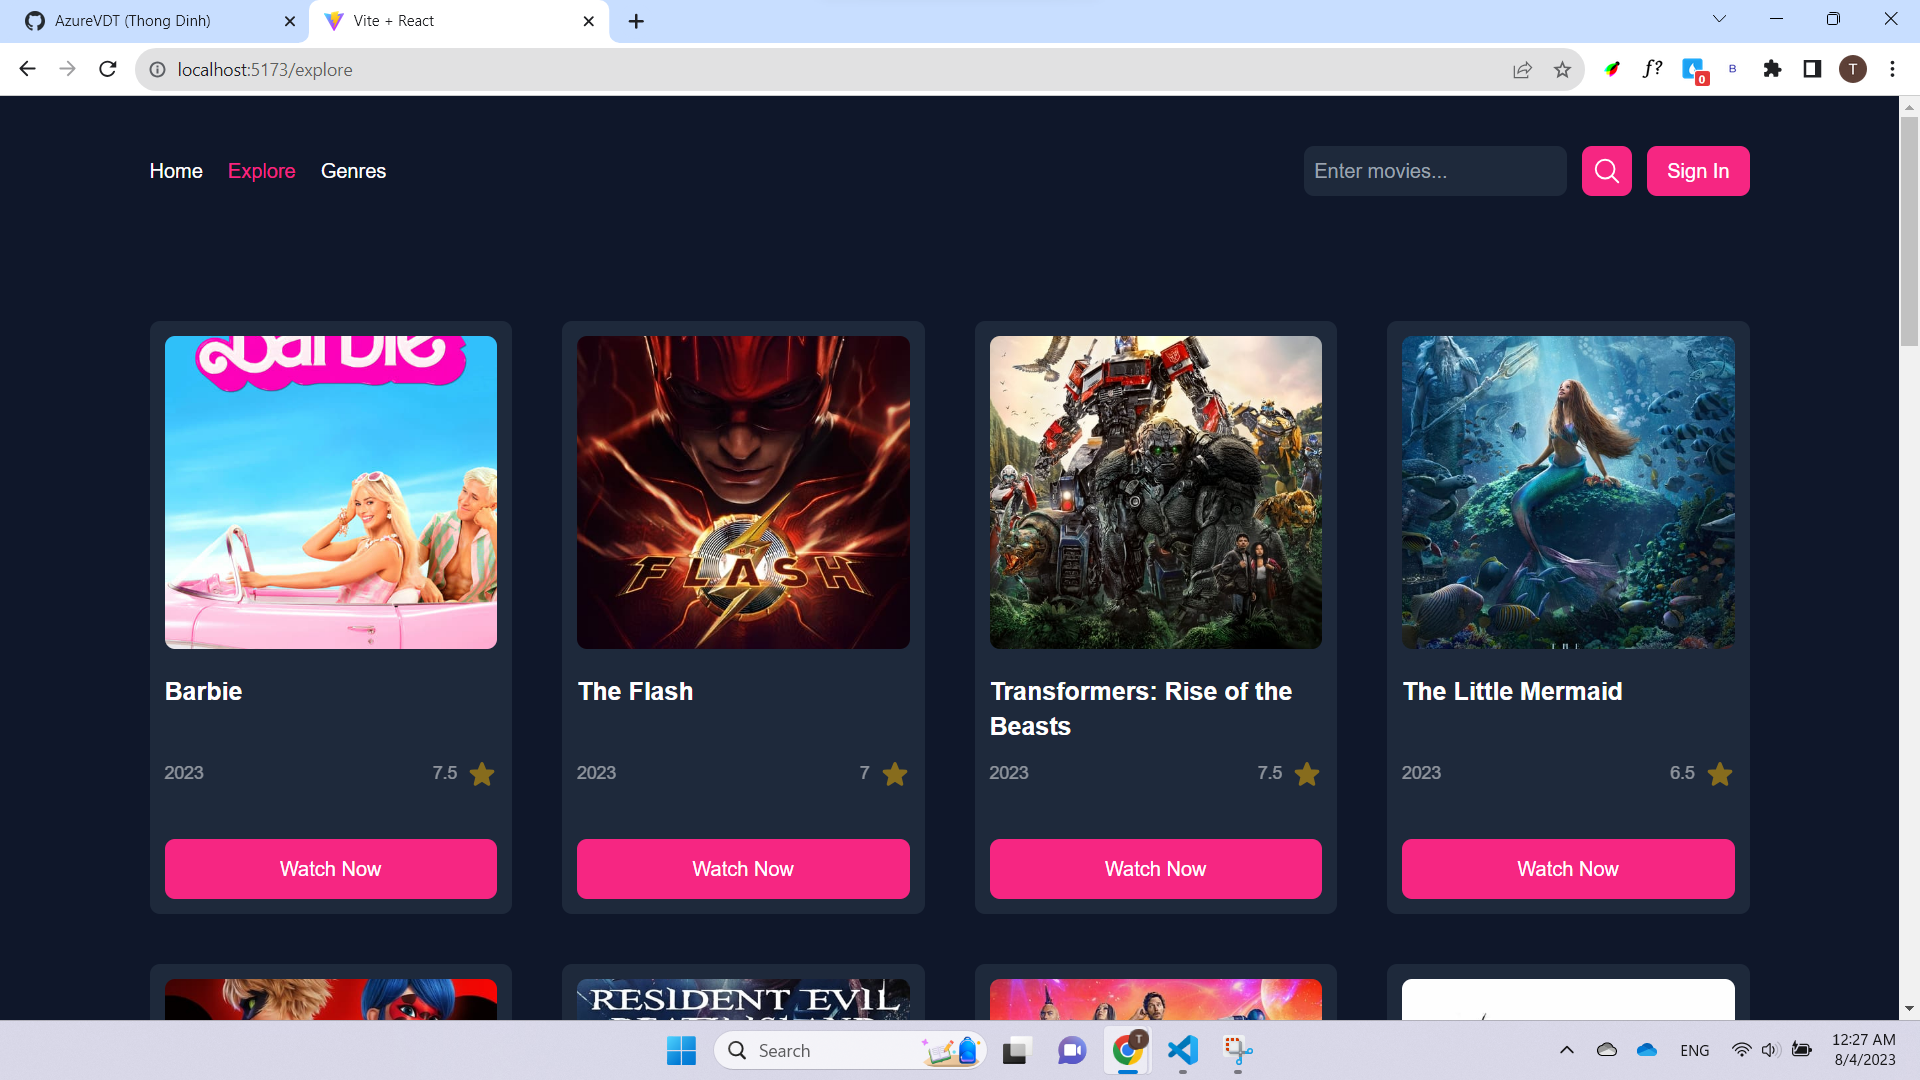
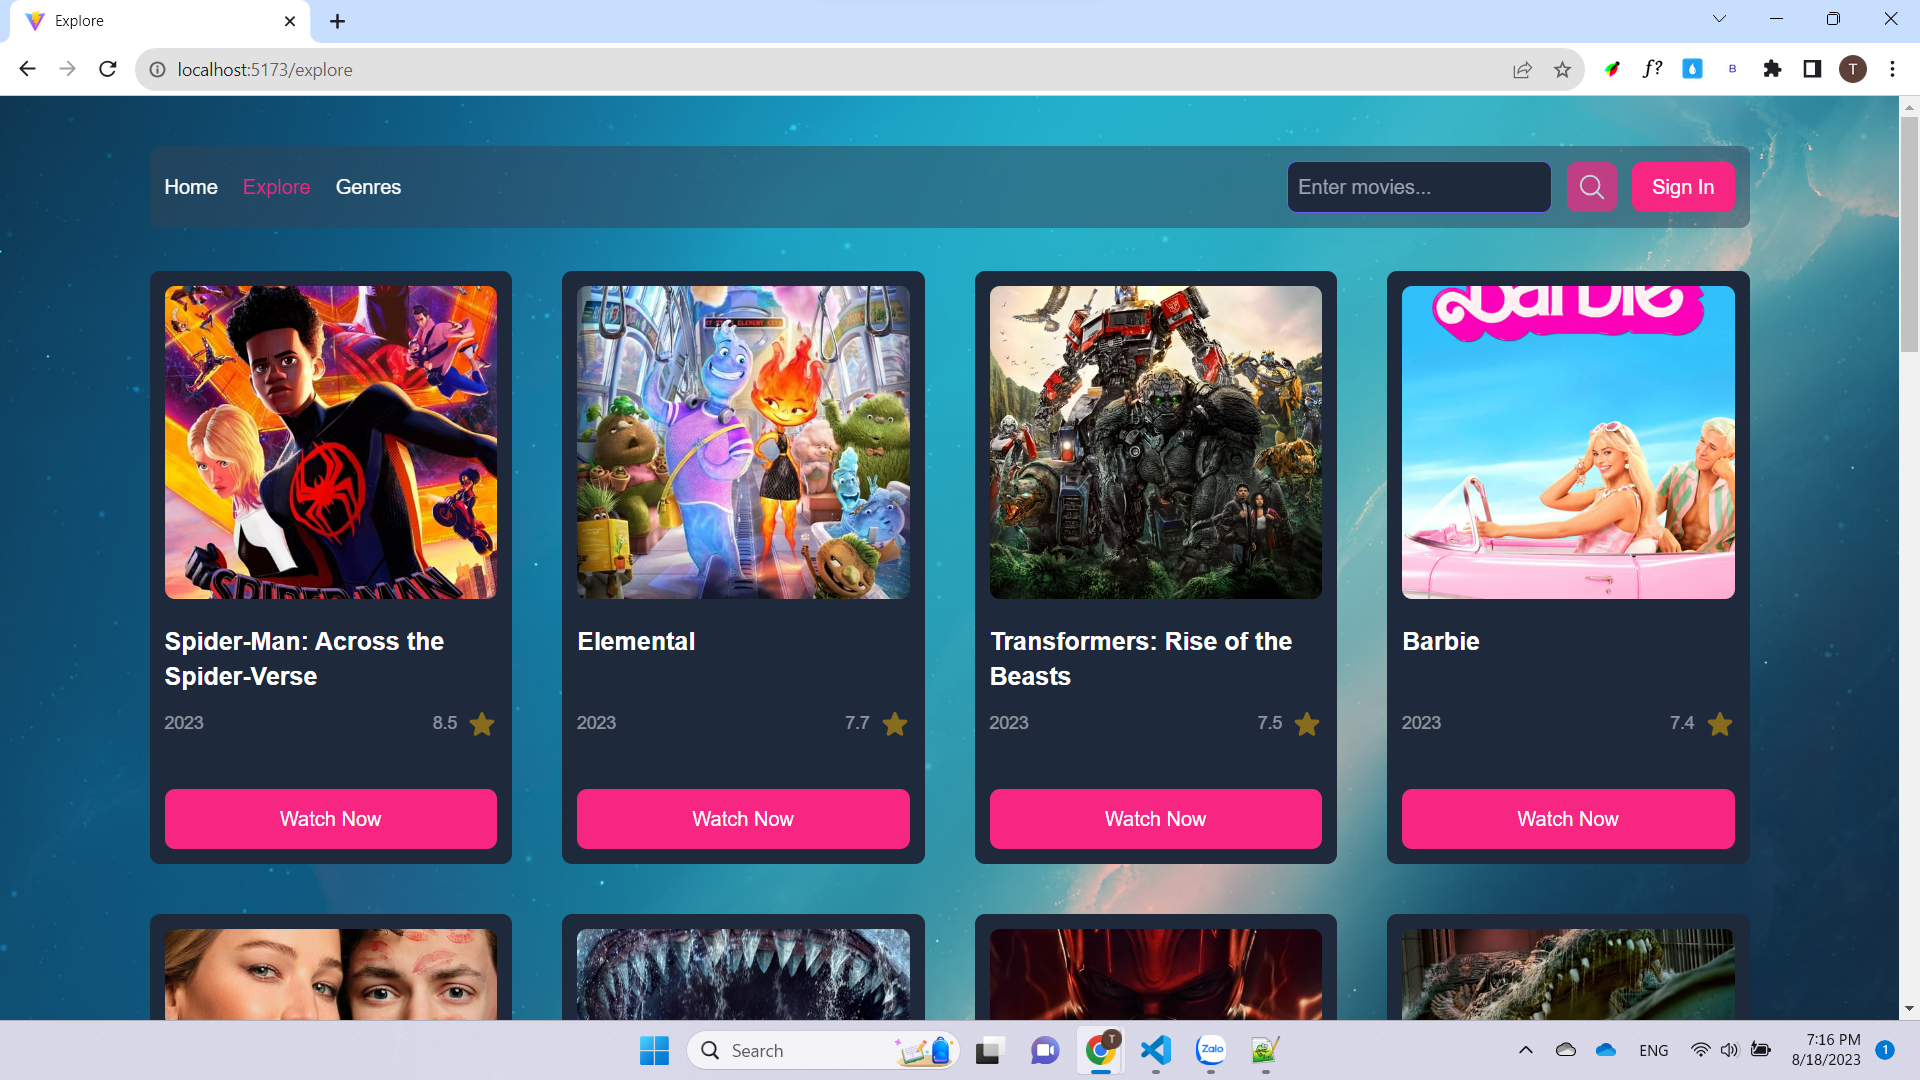
fix bug, updated readme

diff --git a/src/components/user/UserPasswordEdit.jsx b/src/components/user/UserPasswordEdit.jsx
@@ -24,6 +24,31 @@ const UserPasswordEdit = () => {
                 user?.email,
                 oldPassword
             );
+            if (!oldPassword) {
+                toast.error("Please enter your old password", {
+                    delay: 0,
+                    pauseOnHover: false,
+                });
+                return;
+            }
+            if (!newPassword) {
+                toast.error("Please enter your new password", {
+                    delay: 0,
+                    pauseOnHover: false,
+                });
+                return;
+            }
+            if (
+                !newPassword.match(
+                    /^(?=.*[a-z])(?=.*[A-Z])(?=.*\d)(?=.*[@$!%*?&])[A-Za-z\d@$!%*?&]{8,}$/
+                )
+            ) {
+                toast.error(
+                    "Your new password must have at least with one lowercase, uppercase, digit and special character",
+                    { delay: 0, pauseOnHover: false }
+                );
+                return;
+            }
             await reauthenticateWithCredential(auth.currentUser, credential);
             await updatePassword(auth.currentUser, newPassword);
             const userRef = doc(db, "users", userId);

diff --git a/src/page/MovieSearchPage.jsx b/src/page/MovieSearchPage.jsx
@@ -4,7 +4,8 @@ import MovieCard, { MovieCardSkeleton } from "../components/movie/MovieCard";
 import { useMovie } from "../contexts/movie-context";
 import React from "react";
 import Pagination from "../components/layout/Pagination";
-const MovieSearchPage = () => {
+import PropTypes from "prop-types";
+const MovieSearchPage = ({ searchTitle }) => {
     const { url, filterDebounce, setUrl, nextPage } = useMovie();
     const { data, error } = useSWR(url, fetcher);
     const loading = !data && !error;
@@ -15,6 +16,9 @@ const MovieSearchPage = () => {
             setUrl(tmdbAPI.getMovieList("upcoming", nextPage));
         }
     }, [filterDebounce, nextPage, setUrl]);
+    React.useEffect(() => {
+        document.title = `${searchTitle.split("=").pop()}`;
+    }, [searchTitle]);
     const movies = data?.results || [];
     return (
         <div
@@ -50,6 +54,9 @@ const MovieSearchPage = () => {
             </div>
         </div>
     );
+};
+MovieSearchPage.propTypes = {
+    searchTitle: PropTypes.string,
 };
 
 export default MovieSearchPage;

diff --git a/src/components/form/LoginForm.jsx b/src/components/form/LoginForm.jsx
@@ -47,7 +47,6 @@ const LoginForm = () => {
         navigate("/");
     };
     React.useEffect(() => {
-        document.title = "Login Page";
         if (userInfo?.email) navigate("/");
         // eslint-disable-next-line react-hooks/exhaustive-deps
     }, []);
@@ -61,7 +60,11 @@ const LoginForm = () => {
             });
     }, [errors]);
     return (
-        <form onSubmit={handleSubmit(onHandleSubmit)} className="mt-5 mb-5">
+        <form
+            onSubmit={handleSubmit(onHandleSubmit)}
+            className="mt-5 mb-5"
+            autoComplete="off"
+        >
             <FormGroup
                 type="email"
                 placeholder="Enter your email address"

diff --git a/src/components/movie/GenreMovieList.jsx b/src/components/movie/GenreMovieList.jsx
@@ -4,6 +4,7 @@ import { useParams } from "react-router-dom";
 import MovieCard, { MovieCardSkeleton } from "./MovieCard";
 import { useMovie } from "../../contexts/movie-context";
 import Pagination from "../layout/Pagination";
+import React from "react";
 const GenreMovieList = () => {
     const { nextPage } = useMovie();
     const { slug } = useParams();
@@ -17,6 +18,10 @@ const GenreMovieList = () => {
             type = value;
         }
     });
+
+    React.useEffect(() => {
+        document.title = `${type} Genres`;
+    }, [type]);
     const { data, error } = useSWR(
         tmdbAPI.getGenreMovieList(genreId, nextPage),
         fetcher

diff --git a/src/page/MovieDetailsPage.jsx b/src/page/MovieDetailsPage.jsx
@@ -4,10 +4,15 @@ import { fetcher, tmdbAPI } from "../config";
 import { SwiperSlide, Swiper } from "swiper/react";
 import MovieCard from "../components/movie/MovieCard";
 import PropTypes from "prop-types";
+import React from "react";
 const MovieDetailsPage = () => {
     const { slug } = useParams();
     const navigate = useNavigate();
     const { data } = useSWR(tmdbAPI.getMovieDetails(slug), fetcher);
+
+    React.useEffect(() => {
+        document.title = `${data?.title}`;
+    }, [data?.title]);
     if (!data) return null;
     const {
         backdrop_path,

diff --git a/src/page/MovieExplorePage.jsx b/src/page/MovieExplorePage.jsx
@@ -3,8 +3,12 @@ import { fetcher, tmdbAPI } from "../config";
 import MovieCard, { MovieCardSkeleton } from "../components/movie/MovieCard";
 import Pagination from "../components/layout/Pagination";
 import { useMovie } from "../contexts/movie-context";
+import React from "react";
 
 const MovieExplorePage = () => {
+    React.useEffect(() => {
+        document.title = "Explore";
+    }, []);
     const { nextPage } = useMovie();
     const { data, error } = useSWR(
         tmdbAPI.getMovieList("popular", nextPage),

diff --git a/src/components/layout/Header.jsx b/src/components/layout/Header.jsx
@@ -44,6 +44,7 @@ const Header = () => {
                     <div className="flex items-center justify-center gap-x-3">
                         <div className="flex-1 w-full max-w-[500px]">
                             <input
+                                autoComplete="off"
                                 type="text"
                                 name="search"
                                 placeholder="Enter movies..."

diff --git a/src/components/form/FormGroup.jsx b/src/components/form/FormGroup.jsx
@@ -16,7 +16,7 @@ const FormGroup = ({ control, children, ...props }) => {
                     {...props}
                     {...field}
                     className="w-full border border-gray-200 p-3 rounded-lg focus:border-primary"
-                    autoComplete="false"
+                    autoComplete="off"
                 />
                 {children}
             </div>

diff --git a/src/components/form/RegisterForm.jsx b/src/components/form/RegisterForm.jsx
@@ -83,7 +83,7 @@ const RegisterForm = () => {
         document.title = "Register Page";
     }, []);
     return (
-        <form onSubmit={handleSubmit(onHandleSubmit)}>
+        <form onSubmit={handleSubmit(onHandleSubmit)} autoComplete="off">
             <div className="flex items-center justify-between">
                 <FormGroup
                     type="text"

diff --git a/src/page/HomePage.jsx b/src/page/HomePage.jsx
@@ -1,7 +1,11 @@
+import React from "react";
 import Banner from "../components/banner/Banner";
 import MovieList from "../components/movie/MovieList";
 
 const HomePage = () => {
+    React.useEffect(() => {
+        document.title = "Home";
+    }, []);
     return (
         <div
             className="absolute top-0 w-full"

diff --git a/src/page/MoviePage.jsx b/src/page/MoviePage.jsx
@@ -8,7 +8,7 @@ const MoviePage = () => {
     return (
         <>
             {isSlugString ? (
-                <MovieSearchPage></MovieSearchPage>
+                <MovieSearchPage searchTitle={slug}></MovieSearchPage>
             ) : (
                 <MovieDetailsPage></MovieDetailsPage>
             )}

diff --git a/Readme.md b/Readme.md
@@ -5,12 +5,16 @@ Welcome to Movie App! This is a web application built using React and powered by
 ## Table of Contents
 
 -   [Introduction](#introduction)
--   [Page](#page)
+-   [Pages](#pages)
 -   [Features](#features)
 -   [Getting Started](#getting-started)
 -   [Usage](#usage)
 -   [Search](#search)
 -   [Movie Details](#movie-details)
+-   [Login](#login)
+-   [Register](#register)
+-   [Change Password](#change-password)
+-   [Change Display Name](#change-display-name)
 -   [Contributing](#contributing)
 -   [License](#license)
 
@@ -18,7 +22,7 @@ Welcome to Movie App! This is a web application built using React and powered by
 
 The Movies App is a platform that allows users to explore a vast collection of movies. The application leverages the power of React to deliver a seamless and responsive user experience. By utilizing Vite, the development process is streamlined, enabling faster loading times and better performance.
 
-## Page
+## Pages
 
 1. **Home page:** On this page, You will see the banner of currently showing movies at the theater, and below it is a list of trending, top-rated, and popular movies.
    ![](./src/assets/ReadmeImage/home-page.png)
@@ -30,59 +34,96 @@ The Movies App is a platform that allows users to explore a vast collection of m
 
     ![](./src/assets/ReadmeImage/movie-details-page.png)
 
+4. **Login page:** On this page, registered users can log in to access app features.
+
+    ![](./src/assets/ReadmeImage/login-page.png)
+
+5. **Register page:** On this page, new users can create an account.
+
+    ![](./src/assets/ReadmeImage/register-page.png)
+
+6. **User profile page:** On this page, logged in users can change their display name, password, and access account settings.
+
+    - **Change display name:** Click the edit icon and enter a new display name, then click Finish to save changes.
+
+        ![](./src/assets/ReadmeImage/change-display-name.png)
+
+    - **Change password:** Click the edit icon and enter current and new password, then click Finish to save changes.
+
+        ![](./src/assets/ReadmeImage/change-password.png)
+
 ## Features
 
 The Movies App comes equipped with the following features:
 
-1. **Now Playing:** View a curated list of movies currently being screened in theaters.
+1. **Now Playing:** View movies currently screening in theaters.
 
-2. **Trending Movies:** Discover the latest trending movies that are gaining popularity.
+2. **Trending Movies:** Discover trending and popular movies.
 
-3. **Top Rated Movies:** Explore a selection of movies with the highest user ratings.
+3. **Top Rated Movies:** Highly rated movies by users.
 
-4. **Popular Movies:** Browse a collection of the most popular movies.
+4. **Movie Search:** Search movies by title.
 
-5. **Movie Search:** Easily find movies by searching for their titles.
+5. **Genre Search:** Find movies by genre.
 
-6. **Genre-based Search:** Filter movies based on specific genres.
+6. **Movie Details:** View synopsis, cast, release date etc.
 
-7. **Movie Details:** Access detailed information about each movie, including synopsis, cast, release date, and more.
+7. **User Login:** Registered users can log in.
+
+8. **User Registration:** New users can create an account.
+
+9. **Change Display Name:** Edit account display name.
+
+10. **Change Password:** Change account password.
+
+11. **Account Settings:** Manage user account.
 
 ## Installation
 
-To run Movie App on your local machine, follow these steps:
+Follow these steps to run the app locally:
 
-1. Ensure you have Node.js installed on your system.
-2. Clone this repository: `git clone https://github.com/your-username/movie-app.git`.
-3. Navigate to the project directory: `cd movie-app`.
-4. Install dependencies: `npm install` or `yarn install`.
-5. Start the development server: `npm run dev` or `yarn dev`.
-6. Open your browser and go to `http://localhost:5173` to access the Movie App.
+1. Clone the repo `git clone https://github.com/your-username/movie-app.git`
+2. Install dependencies with `npm install`
+3. Start development server with `npm run dev`
+4. Go to `http://localhost:5173` in your browser.
 
 ## Usage
 
-Upon accessing the Movies App, you will be presented with the home page, featuring various movie categories. Clicking on each category will lead you to a list of relevant movies. From there, you can click on any movie to view its detailed information.
+On the homepage, browse movie categories or use search to find movies. Click a movie to see details. Registered users can log in to access account features.
 
 ## Search
 
-The Movies App offers two methods for searching movies:
+-   **Search by title:** Use search bar to find movies by title.
 
-Search by Title: Use the search bar at the top of the page to find movies by their titles.
-![](./src/assets/ReadmeImage/search-by-title.png)
-Search by Genre: Use the genre filters to narrow down movies by specific categories.
-![](./src/assets/ReadmeImage/search-by-genres.png)
+-   **Search by genre:** Use genre filters to find movies.
 
 ## Movie Details
 
-When viewing a movie's details, you will find comprehensive information about the selected movie. This includes the movie's synopsis, cast, director, release date, genre, and user ratings.
+Movie details include synopsis, cast, director, release date, genre and ratings.
+
+## Login
+
+Registered users can log in with their credentials on the login page. This provides access to account features.
+
+## Register
+
+New users can create an account by providing details on the register page.
+
+## Change Password
+
+Logged in users can change their account password on the profile page.
+
+## Change Display Name
+
+Logged in users can edit their display name on the profile page.
 
 ## Contributing
 
-We welcome contributions from the community to enhance the Movies App further. If you find any issues or have ideas for improvements, feel free to open a GitHub issue or submit a pull request.
+Contributions are welcome! Please open issues or submit pull requests.
 
 ## License
 
-The Movies App is licensed under the MIT License. Feel free to use, modify, and distribute the code as per the terms of this license.
+This project is under the MIT License.
 
 ##
 
